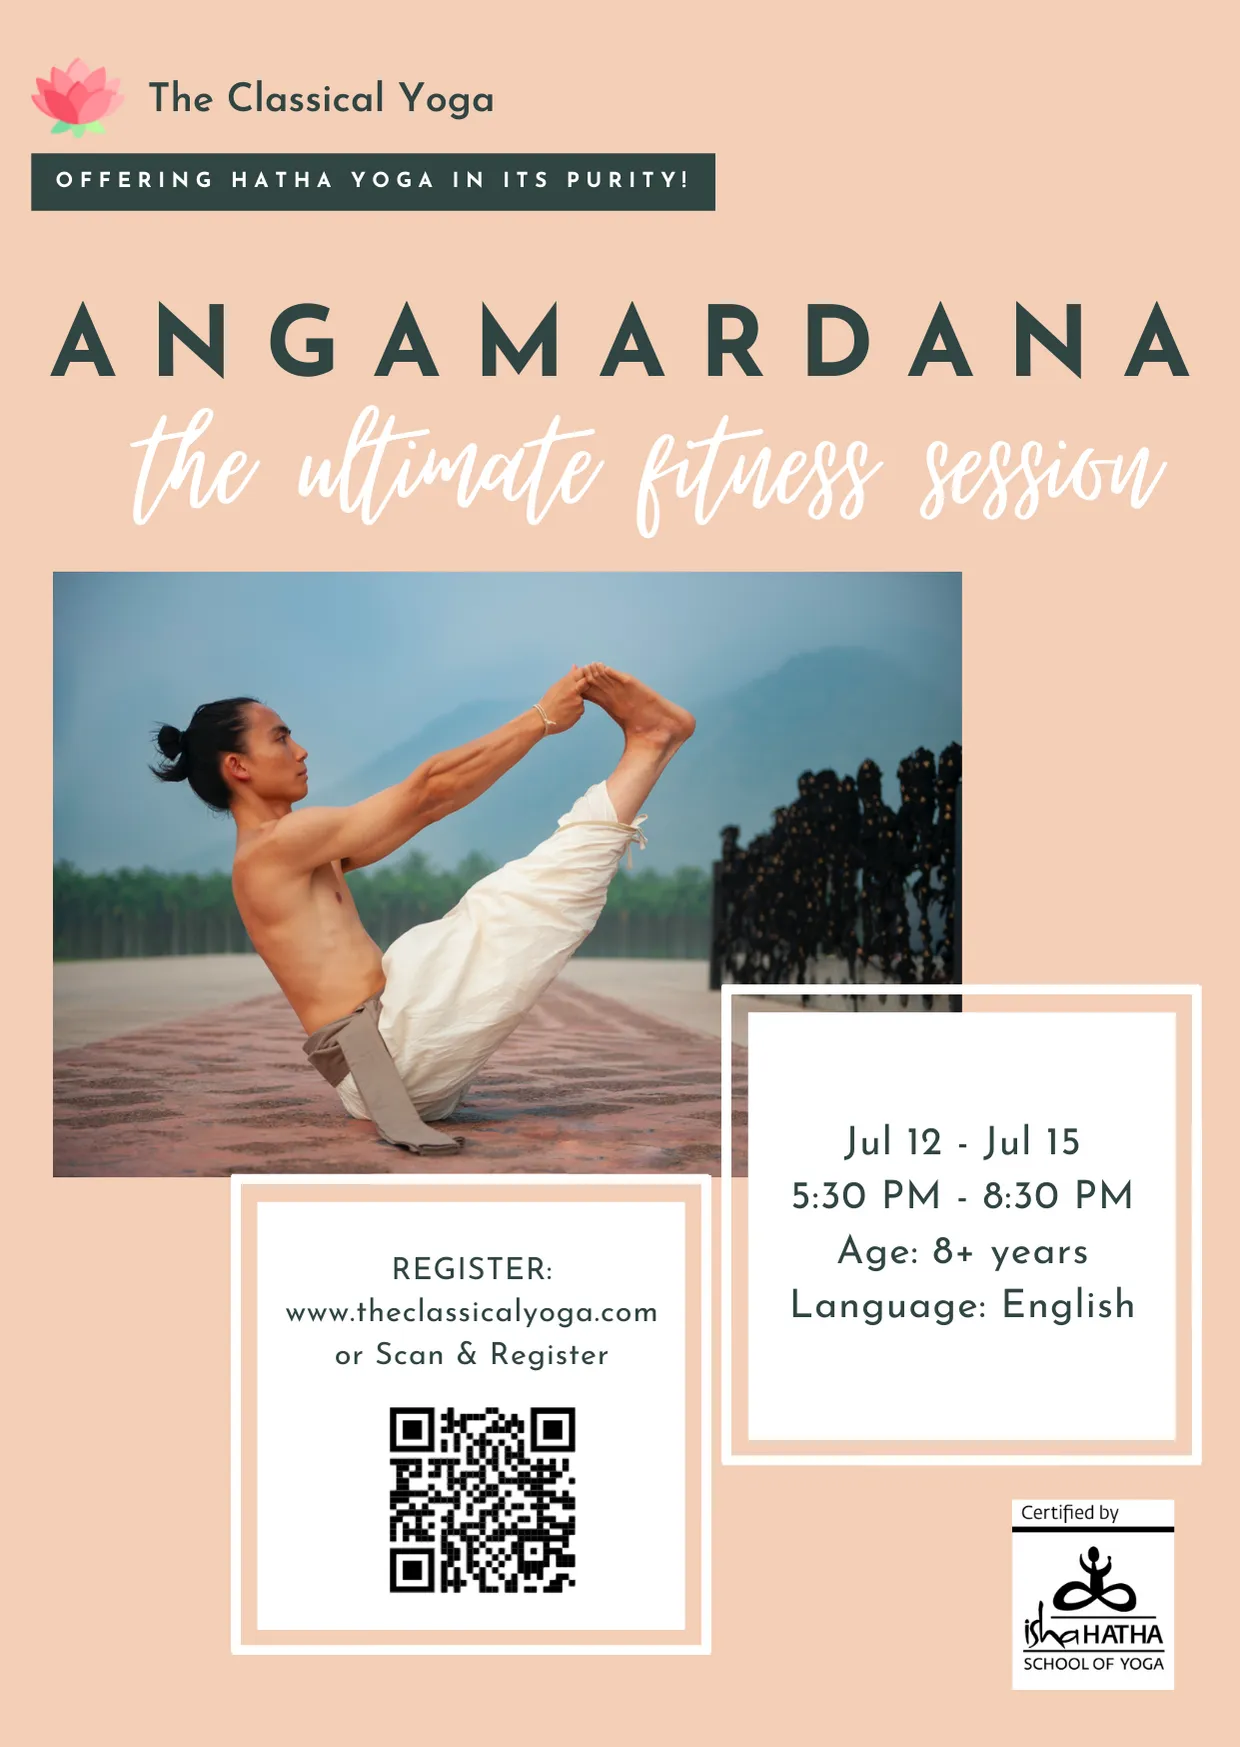
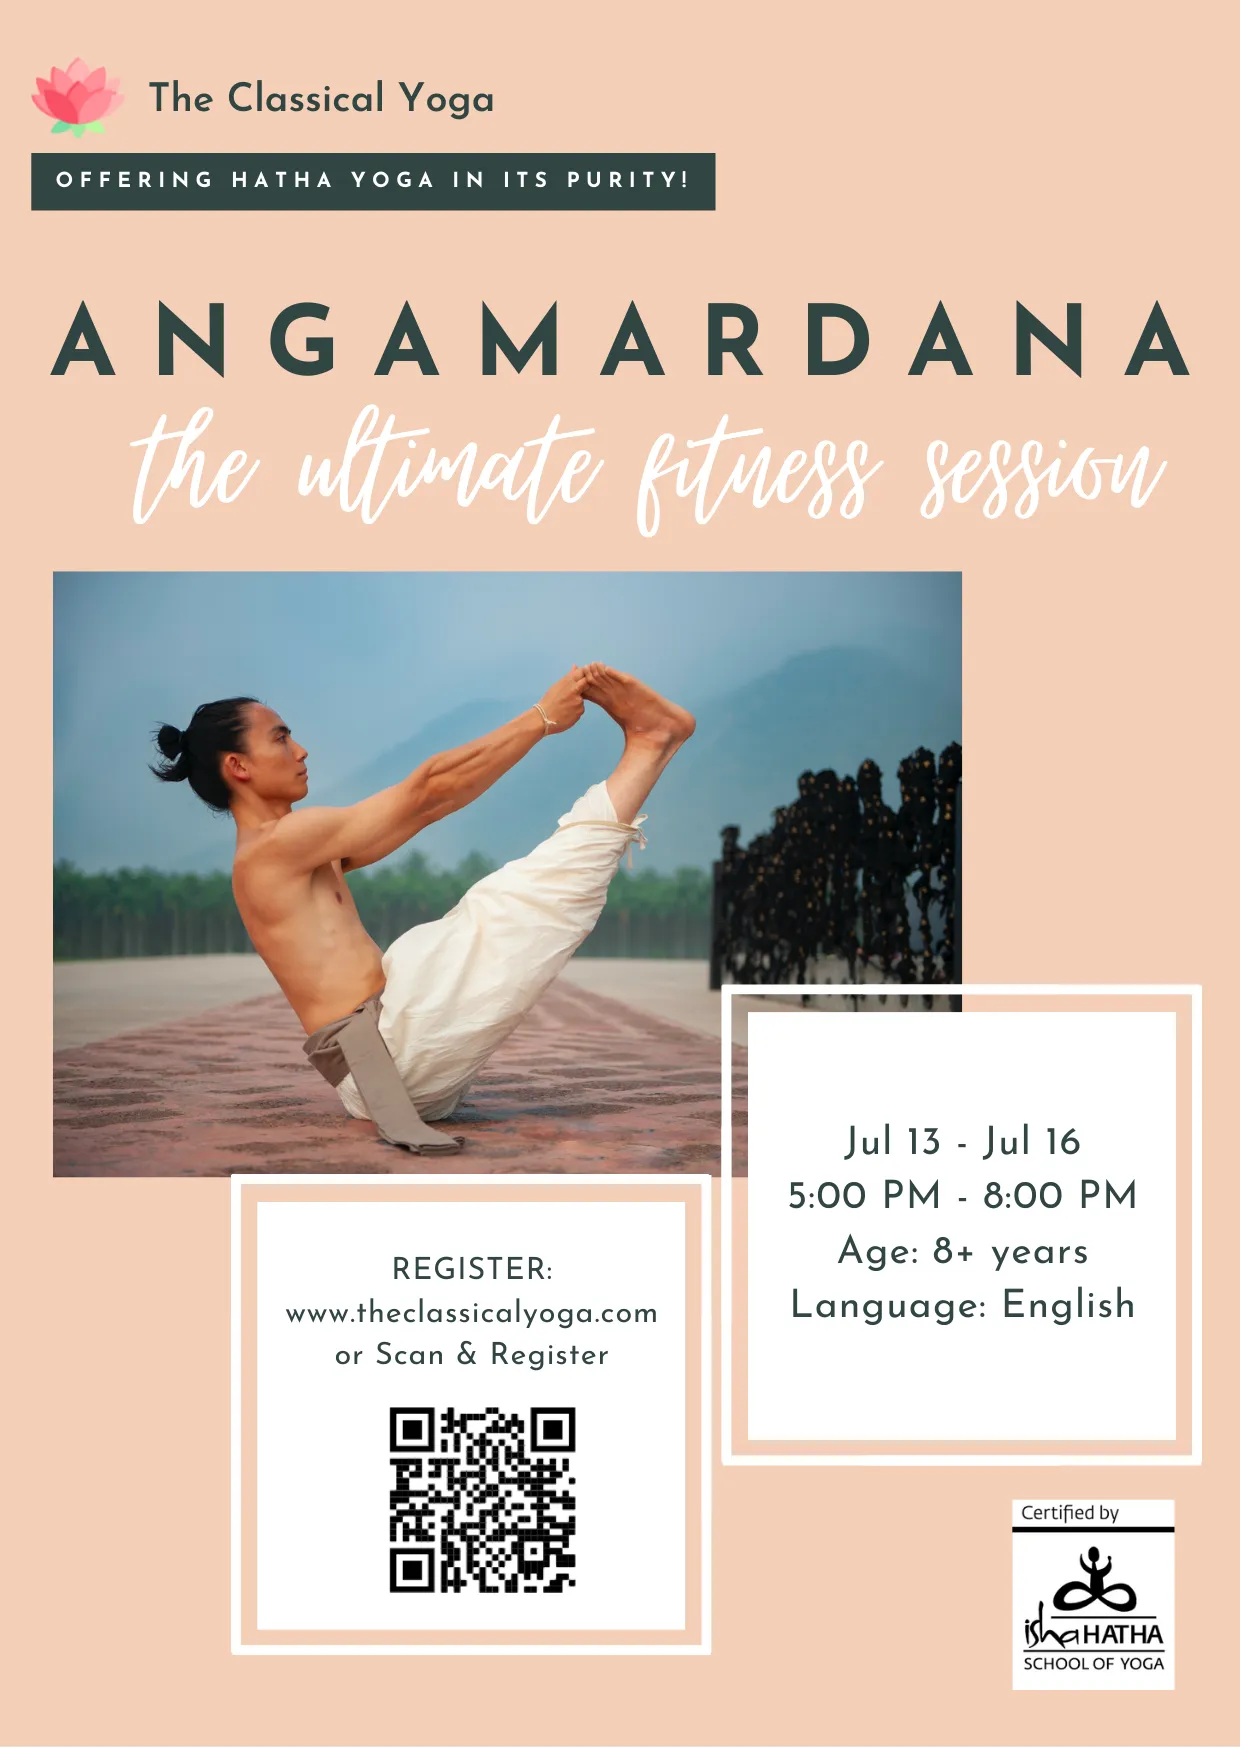
updated AM dates

diff --git a/registration_page.html b/registration_page.html
@@ -241,12 +241,12 @@
                   8:00am - ₹2500
                 </option> -->
 
-                <option value="4DANGA_5Jul8Jul_18002100_2500">Angamardana | Jul 12 to Jul 15 | 5:30pm to
-                  8:30pm - ₹2500
+                <option value="4DANGA_5Jul8Jul_18002100_2500">Angamardana | Jul 13 to Jul 16 | 5:00pm to
+                  8:00pm - ₹3000
                 </option>
 
                 <option value="5DYA_10Jul12Jul_600900_3000">Yogasanas | Jul 10 to Jul 12 | 6:00am to
-                  9:00am - ₹3000
+                  9:00am - ₹3500
                 </option>
 
                 <option value="4DSS_5Jul9Jul_17001900_2000">Surya Shakti | Jul 5 to Jul 9 | 5:00pm to
